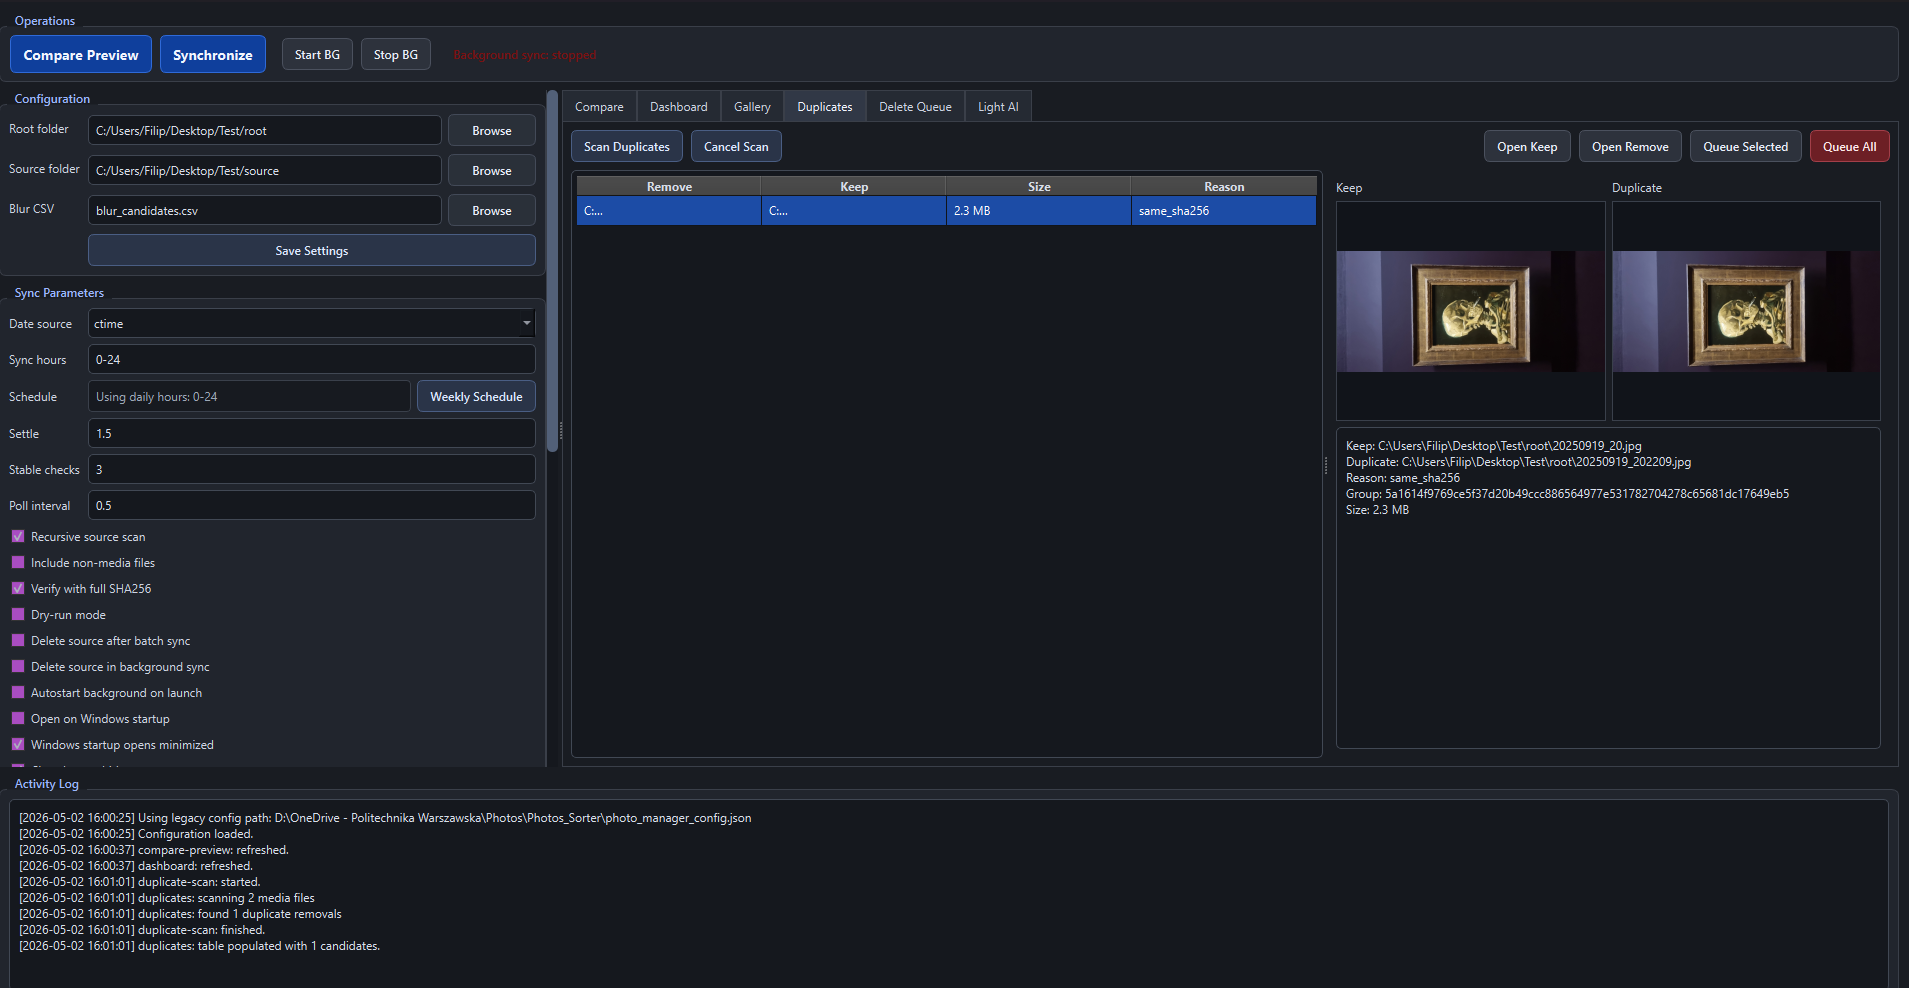
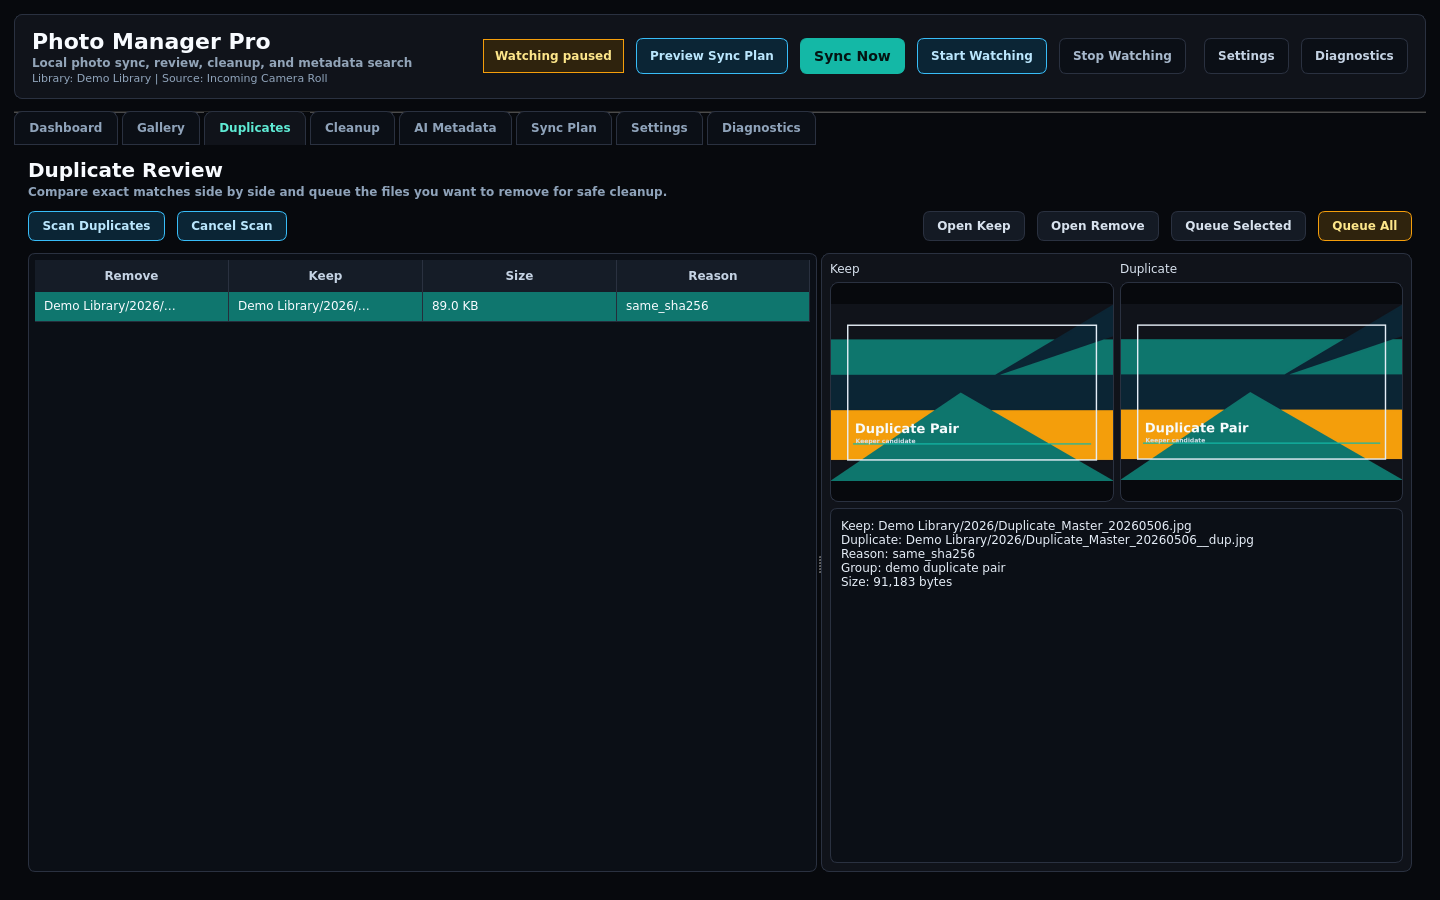
Prepare 0.1.3 dark UI release

diff --git a/photo_manager_qt.py b/photo_manager_qt.py
@@ -1288,7 +1288,9 @@ class PhotoManagerWindow(QMainWindow):
         self.gallery_preview_label = QLabel()
         self.gallery_preview_label.setAlignment(Qt.AlignmentFlag.AlignCenter)
         self.gallery_preview_label.setMinimumSize(320, 320)
-        self.gallery_preview_label.setStyleSheet("background: #f8fafc; border: 1px solid #d6dee9; border-radius: 8px;")
+        self.gallery_preview_label.setStyleSheet(
+            "background: #07090d; border: 1px solid #2a3140; border-radius: 8px;"
+        )
         self.gallery_details = QPlainTextEdit()
         self.gallery_details.setReadOnly(True)
         self.gallery_details.setMinimumHeight(140)
@@ -1344,7 +1346,7 @@ class PhotoManagerWindow(QMainWindow):
         for label in (self.duplicate_keep_preview, self.duplicate_remove_preview):
             label.setAlignment(Qt.AlignmentFlag.AlignCenter)
             label.setMinimumSize(220, 220)
-            label.setStyleSheet("background: #f8fafc; border: 1px solid #d6dee9; border-radius: 8px;")
+            label.setStyleSheet("background: #07090d; border: 1px solid #2a3140; border-radius: 8px;")
         self.duplicate_details = QPlainTextEdit()
         self.duplicate_details.setReadOnly(True)
         preview_layout.addWidget(QLabel("Keep"), 0, 0)
@@ -1449,33 +1451,33 @@ class PhotoManagerWindow(QMainWindow):
     def _apply_theme(self) -> None:
         self.setStyleSheet(
             """
-            QMainWindow { background: #eef3f8; color: #17202b; }
-            QWidget#appRoot { background: #eef3f8; color: #17202b; }
-            QWidget { color: #17202b; font-size: 12px; }
-            QLabel { color: #263241; }
+            QMainWindow { background: #07090d; color: #e5edf7; }
+            QWidget#appRoot { background: #07090d; color: #e5edf7; }
+            QWidget { color: #d8e2ee; font-size: 12px; }
+            QLabel { color: #d8e2ee; }
             QWidget#commandBar {
-                background: #ffffff;
-                border: 1px solid #d7e0eb;
-                border-radius: 10px;
+                background: #10131a;
+                border: 1px solid #2a3140;
+                border-radius: 8px;
             }
             QLabel#appTitle {
-                color: #111827;
+                color: #f8fbff;
                 font-size: 22px;
                 font-weight: 900;
             }
             QLabel#appSubtitle {
-                color: #64748b;
+                color: #92a4b8;
                 font-size: 12px;
                 font-weight: 600;
             }
             QLabel#pathInline {
-                color: #475569;
+                color: #8fa3ba;
                 font-size: 11px;
             }
             QLabel#statusPill {
-                color: #92400e;
-                background: #fef3c7;
-                border: 1px solid #fbbf24;
+                color: #fde68a;
+                background: #2f230d;
+                border: 1px solid #f59e0b;
                 border-radius: 999px;
                 padding: 6px 11px;
                 font-weight: 800;
@@ -1488,66 +1490,66 @@ class PhotoManagerWindow(QMainWindow):
                 background: transparent;
             }
             QScrollBar:vertical {
-                background: #e2e8f0;
+                background: #0b0f16;
                 border: none;
                 width: 12px;
                 margin: 0;
             }
             QScrollBar::handle:vertical {
-                background: #94a3b8;
+                background: #2f3b4d;
                 border-radius: 6px;
                 min-height: 28px;
             }
-            QScrollBar::handle:vertical:hover { background: #64748b; }
+            QScrollBar::handle:vertical:hover { background: #14b8a6; }
             QScrollBar::add-line:vertical, QScrollBar::sub-line:vertical {
                 border: none;
                 background: transparent;
                 height: 0;
             }
             QScrollBar::add-page:vertical, QScrollBar::sub-page:vertical {
-                background: #e2e8f0;
+                background: #0b0f16;
             }
             QLabel#pageTitle {
-                color: #111827;
+                color: #f8fbff;
                 font-size: 20px;
                 font-weight: 900;
             }
             QLabel#pageSubtitle {
-                color: #64748b;
+                color: #8fa3ba;
                 font-size: 12px;
                 font-weight: 600;
             }
             QLabel#sectionTitle {
-                color: #334155;
+                color: #c4d2e3;
                 font-size: 12px;
                 font-weight: 900;
             }
             QGroupBox {
-                border: 1px solid #d7e0eb;
-                border-radius: 10px;
+                border: 1px solid #2a3140;
+                border-radius: 8px;
                 margin-top: 14px;
                 font-weight: 800;
-                background: #ffffff;
-                color: #17202b;
+                background: #10131a;
+                color: #e5edf7;
             }
             QGroupBox::title {
                 subcontrol-origin: margin;
                 left: 12px;
                 padding: 0 7px;
-                color: #0f766e;
-                background: #ffffff;
+                color: #5eead4;
+                background: #10131a;
             }
             QLineEdit, QComboBox, QListWidget, QTableWidget, QPlainTextEdit {
-                border: 1px solid #ccd6e2;
+                border: 1px solid #2a3140;
                 border-radius: 7px;
                 padding: 6px;
-                background: #ffffff;
-                color: #17202b;
-                selection-background-color: #bfdbfe;
-                selection-color: #0f172a;
+                background: #0b0f16;
+                color: #e5edf7;
+                selection-background-color: #0f766e;
+                selection-color: #f8fbff;
             }
             QLineEdit:focus, QComboBox:focus, QListWidget:focus, QTableWidget:focus, QPlainTextEdit:focus {
-                border-color: #0f766e;
+                border-color: #14b8a6;
             }
             QTabWidget#workspaceTabs::pane {
                 border: none;
@@ -1559,121 +1561,121 @@ class PhotoManagerWindow(QMainWindow):
                 background: transparent;
             }
             QTabWidget#workspaceTabs QTabBar::tab {
-                background: #e8eef5;
-                color: #475569;
+                background: #0b0f16;
+                color: #8fa3ba;
                 padding: 9px 14px;
-                border: 1px solid #d7e0eb;
+                border: 1px solid #2a3140;
                 border-top-left-radius: 8px;
                 border-top-right-radius: 8px;
                 margin-right: 4px;
                 font-weight: 800;
             }
             QTabWidget#workspaceTabs QTabBar::tab:selected {
-                background: #ffffff;
-                color: #0f766e;
-                border-bottom-color: #ffffff;
+                background: #10131a;
+                color: #5eead4;
+                border-bottom-color: #10131a;
             }
             QTabWidget#workspaceTabs QTabBar::tab:hover {
-                color: #0f172a;
-                background: #f8fafc;
+                color: #f8fbff;
+                background: #14202c;
             }
             QTableWidget {
-                gridline-color: #e2e8f0;
-                alternate-background-color: #f8fafc;
+                gridline-color: #252d3b;
+                alternate-background-color: #0f151f;
             }
             QHeaderView::section {
-                background: #f1f5f9;
-                color: #475569;
+                background: #151c27;
+                color: #c4d2e3;
                 padding: 7px;
                 border: none;
-                border-right: 1px solid #e2e8f0;
+                border-right: 1px solid #2a3140;
                 font-weight: 900;
             }
             QTableWidget::item { padding: 6px; }
             QListWidget { font-family: 'Segoe UI', sans-serif; }
             QLabel#pathLabel {
-                color: #475569;
+                color: #a7b8cc;
                 padding: 5px 7px;
-                border: 1px solid #d7e0eb;
+                border: 1px solid #2a3140;
                 border-radius: 7px;
-                background: #f8fafc;
+                background: #0b0f16;
             }
             QWidget#metricCard, QWidget#nextActionCard, QWidget#tablePanel, QWidget#inspectorPanel {
-                background: #ffffff;
-                border: 1px solid #d7e0eb;
-                border-radius: 10px;
+                background: #10131a;
+                border: 1px solid #2a3140;
+                border-radius: 8px;
             }
             QLabel#metricTitle {
-                color: #64748b;
+                color: #8fa3ba;
                 font-size: 11px;
                 font-weight: 900;
             }
             QLabel#metricValue {
-                color: #111827;
+                color: #f8fbff;
                 font-size: 26px;
                 font-weight: 900;
             }
             QLabel#metricCaption {
-                color: #64748b;
+                color: #8fa3ba;
                 font-size: 11px;
             }
             QLabel#nextActionTitle {
-                color: #0f172a;
+                color: #f8fbff;
                 font-size: 15px;
                 font-weight: 900;
             }
             QLabel#nextActionBody {
-                color: #475569;
+                color: #a7b8cc;
                 font-size: 12px;
             }
             QPushButton {
-                border: 1px solid #cbd5e1;
+                border: 1px solid #2a3140;
                 border-radius: 7px;
                 padding: 7px 13px;
-                background: #ffffff;
-                color: #17202b;
+                background: #141a24;
+                color: #d8e2ee;
                 font-weight: 800;
             }
-            QPushButton:hover { background: #f8fafc; border-color: #94a3b8; }
-            QPushButton:pressed { background: #e2e8f0; }
+            QPushButton:hover { background: #1b2635; border-color: #14b8a6; color: #f8fbff; }
+            QPushButton:pressed { background: #0b0f16; }
             QPushButton#primaryAction {
-                background: #0f766e;
-                border-color: #0f766e;
-                color: #ffffff;
+                background: #14b8a6;
+                border-color: #14b8a6;
+                color: #041312;
                 font-size: 14px;
                 font-weight: 900;
             }
-            QPushButton#primaryAction:hover { background: #115e59; border-color: #115e59; }
+            QPushButton#primaryAction:hover { background: #2dd4bf; border-color: #2dd4bf; color: #041312; }
             QPushButton#secondaryAction {
-                background: #e0f2fe;
-                border-color: #7dd3fc;
-                color: #075985;
+                background: #0b2535;
+                border-color: #38bdf8;
+                color: #bae6fd;
                 font-weight: 900;
             }
-            QPushButton#secondaryAction:hover { background: #bae6fd; }
+            QPushButton#secondaryAction:hover { background: #123449; color: #e0f2fe; }
             QPushButton#quietAction {
-                background: #f8fafc;
-                border-color: #cbd5e1;
-                color: #475569;
+                background: #0b0f16;
+                border-color: #2a3140;
+                color: #a7b8cc;
             }
             QPushButton#cautionAction {
-                background: #fff7ed;
-                border-color: #fdba74;
-                color: #9a3412;
+                background: #2f230d;
+                border-color: #f59e0b;
+                color: #fde68a;
             }
-            QPushButton#cautionAction:hover { background: #ffedd5; }
+            QPushButton#cautionAction:hover { background: #432f0b; color: #fffbeb; }
             QPushButton#dangerAction {
-                background: #b91c1c;
-                border-color: #b91c1c;
-                color: #ffffff;
+                background: #7f1d1d;
+                border-color: #ef4444;
+                color: #fee2e2;
             }
-            QPushButton#dangerAction:hover { background: #991b1b; }
+            QPushButton#dangerAction:hover { background: #991b1b; color: #ffffff; }
             QPushButton#toolbarButton {
-                background: #f8fafc;
-                border-color: #cbd5e1;
-                color: #334155;
+                background: #0b0f16;
+                border-color: #2a3140;
+                color: #c4d2e3;
             }
-            QCheckBox { padding: 3px; color: #334155; }
+            QCheckBox { padding: 3px; color: #c4d2e3; }
             """
         )
 
@@ -2967,13 +2969,13 @@ class PhotoManagerWindow(QMainWindow):
         if running:
             self.bg_status_label.setText("Watching active")
             self.bg_status_label.setStyleSheet(
-                "color: #065f46; background: #d1fae5; border: 1px solid #6ee7b7; "
+                "color: #99f6e4; background: #062f2a; border: 1px solid #14b8a6; "
                 "border-radius: 999px; padding: 6px 11px; font-weight: 800;"
             )
         else:
             self.bg_status_label.setText("Watching paused")
             self.bg_status_label.setStyleSheet(
-                "color: #92400e; background: #fef3c7; border: 1px solid #fbbf24; "
+                "color: #fde68a; background: #2f230d; border: 1px solid #f59e0b; "
                 "border-radius: 999px; padding: 6px 11px; font-weight: 800;"
             )
 

diff --git a/CHANGELOG.md b/CHANGELOG.md
@@ -4,6 +4,10 @@
 
 ## 0.1.3 - 2026-05-10
 
+- Refreshed the desktop GUI with a dark futuristic product surface, command bar, dashboard-first workspace, dedicated Settings and Diagnostics tabs, summary metric cards, and safer cleanup action hierarchy.
+- Updated the GitHub Pages visual system to match the dark desktop UI.
+- Added repeatable sanitized screenshot capture automation for the GitHub Pages dashboard, gallery, and duplicate review images.
+- Replaced the public GitHub Pages screenshots with current desktop views captured from a disposable demo library.
 - Added Linux systemd user-service support for headless background synchronization.
 - Updated GUI service controls to describe Windows Services and Linux systemd service modes.
 - Expanded documentation and the GitHub Pages site for Windows/Linux usage.
@@ -11,7 +15,6 @@
 
 ## 0.1.2 - 2026-05-10
 
-- Refreshed the desktop GUI with a product-style command bar, dashboard-first workspace, dedicated Settings and Diagnostics tabs, summary metric cards, and safer cleanup action hierarchy.
 - Added dashboard sync report export for indexed synchronization events.
 - Hardened CI to install the project from scratch on Python 3.10 and 3.13 before running tests and package checks.
 - Kept Windows installer and source-run GUI fallback versions aligned with the package version.

diff --git a/RELEASE.md b/RELEASE.md
@@ -202,13 +202,14 @@ Alpha release focused on local photo organization, sync, indexing, and review wo
 
 ### Added
 
-- PySide6 desktop GUI.
+- Dark futuristic PySide6 desktop GUI.
 - Year-based photo/video sorting with EXIF, filename, and timestamp fallback.
 - One-shot sync and background folder watching.
 - CSV sync log, dashboard sync report export, and local SQLite library index.
-- Dashboard, thumbnail gallery, duplicate review, and Safe Delete Queue.
+- Dashboard-first workspace, thumbnail gallery, duplicate review, Settings, Diagnostics, and Safe Delete Queue.
 - Blur scanning with OpenCV.
 - Local Light AI tags/captions with optional OCR.
+- Sanitized GitHub Pages screenshot capture automation.
 - Windows executable build workflow.
 - Linux systemd user-service commands for headless background sync.
 - CI coverage for package build, lint, tests, version consistency, and GUI smoke startup.

diff --git a/README.md b/README.md
@@ -164,7 +164,7 @@ py -m pre_commit run --all-files
 
 ## Screenshots
 
-Core screenshots are committed under `docs/screenshots/`. The capture plan and recommended filenames are documented in `docs/SCREENSHOTS.md`.
+Core screenshots are committed under `docs/screenshots/`. The capture plan, recommended filenames, and sanitized demo capture script are documented in `docs/SCREENSHOTS.md`.
 
 ## GitHub Pages
 